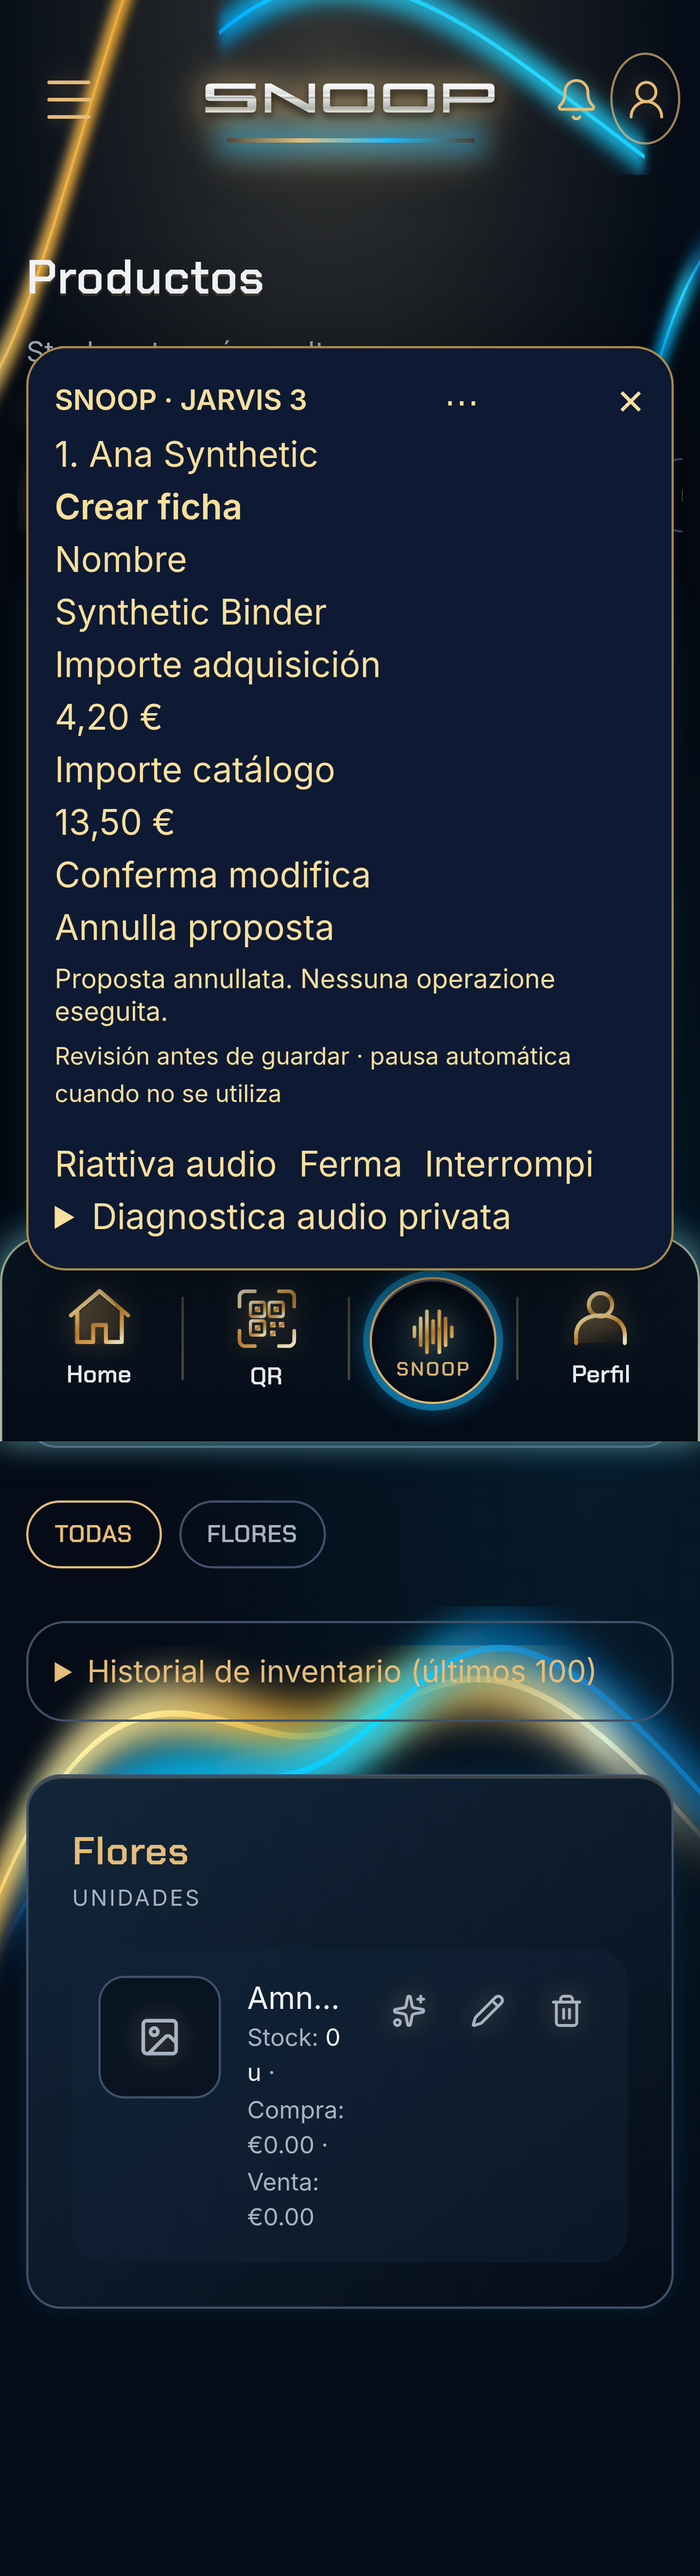
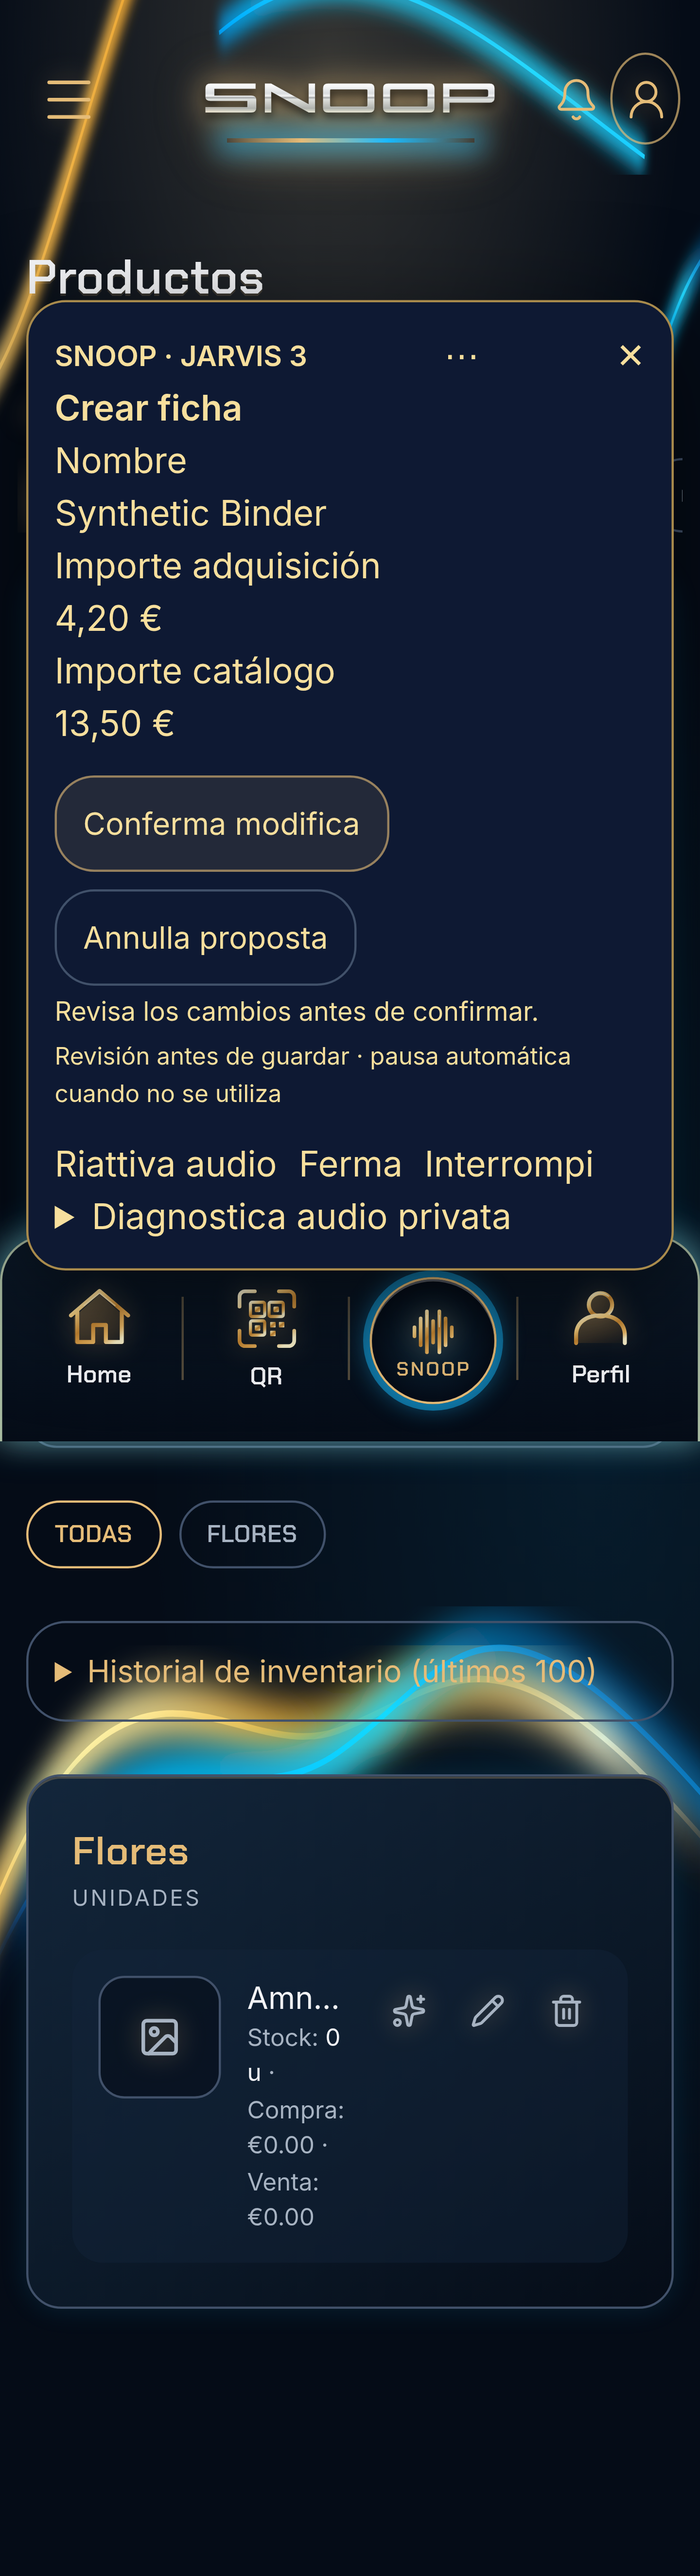
fix(jarvis): isolate confirmation state and separate mobile controls

Changed region(s): [[0.0312, 0.0935, 0.7812, 0.4053], [0.75, 0.0935, 0.9688, 0.1559]]

diff --git a/src/components/DeepgramPilotVoice.tsx b/src/components/DeepgramPilotVoice.tsx
@@ -419,6 +419,8 @@ export function DeepgramPilotVoice({
                 enabled: message.enabled,
                 summary: message.summary,
               });
+              setPrivateRecords([]);
+              setStatus("Revisa los cambios antes de confirmar.");
               setExpanded(true);
             }
           } else if (message.type === "AppExecutionExpired") {
@@ -998,8 +1000,10 @@ export function DeepgramPilotVoice({
               {execution.summary.attestation}
             </label>
           )}
+          <div className="mt-3 flex flex-wrap gap-2">
           <button
             type="button"
+            className="min-h-11 rounded-xl border border-neon/60 bg-neon/10 px-3 text-sm disabled:opacity-50"
             disabled={
               execution.busy ||
               (!execution.uncertain &&
@@ -1026,6 +1030,7 @@ export function DeepgramPilotVoice({
           </button>
           <button
             type="button"
+            className="min-h-11 rounded-xl border border-border px-3 text-sm disabled:opacity-50"
             disabled={execution.busy || execution.uncertain}
             onClick={() => {
               if (!audio.current) return;
@@ -1039,6 +1044,7 @@ export function DeepgramPilotVoice({
           >
             Annulla proposta
           </button>
+          </div>
         </section>
       )}
       <p

diff --git a/docs/JARVIS_OPERATION_INVENTORY.md b/docs/JARVIS_OPERATION_INVENTORY.md
@@ -20,15 +20,15 @@ Scanned files: 230; routes: 29; UI/API entries: 338; route-owned ports: 15.
 | src/components/ClubThemeSettingsPanel.tsx:53 | ui_action | onClick | No automatic claim; see runtime matrix |
 | src/components/ClubThemeSettingsPanel.tsx:70 | ui_action | onClick | No automatic claim; see runtime matrix |
 | src/components/ClubWalletSettingsPanel.tsx:62 | ui_action | onClick | No automatic claim; see runtime matrix |
-| src/components/DeepgramPilotVoice.tsx:827 | ui_action | onClick | No automatic claim; see runtime matrix |
-| src/components/DeepgramPilotVoice.tsx:834 | ui_action | onClick | No automatic claim; see runtime matrix |
-| src/components/DeepgramPilotVoice.tsx:1009 | ui_action | onClick | No automatic claim; see runtime matrix |
-| src/components/DeepgramPilotVoice.tsx:1030 | ui_action | onClick | No automatic claim; see runtime matrix |
-| src/components/DeepgramPilotVoice.tsx:1102 | ui_action | onClick | No automatic claim; see runtime matrix |
-| src/components/DeepgramPilotVoice.tsx:1122 | ui_action | onClick | No automatic claim; see runtime matrix |
-| src/components/DeepgramPilotVoice.tsx:1126 | ui_action | onClick | No automatic claim; see runtime matrix |
-| src/components/DeepgramPilotVoice.tsx:1129 | ui_action | onClick | No automatic claim; see runtime matrix |
-| src/components/DeepgramPilotVoice.tsx:1138 | ui_action | onClick | No automatic claim; see runtime matrix |
+| src/components/DeepgramPilotVoice.tsx:829 | ui_action | onClick | No automatic claim; see runtime matrix |
+| src/components/DeepgramPilotVoice.tsx:836 | ui_action | onClick | No automatic claim; see runtime matrix |
+| src/components/DeepgramPilotVoice.tsx:1013 | ui_action | onClick | No automatic claim; see runtime matrix |
+| src/components/DeepgramPilotVoice.tsx:1035 | ui_action | onClick | No automatic claim; see runtime matrix |
+| src/components/DeepgramPilotVoice.tsx:1108 | ui_action | onClick | No automatic claim; see runtime matrix |
+| src/components/DeepgramPilotVoice.tsx:1128 | ui_action | onClick | No automatic claim; see runtime matrix |
+| src/components/DeepgramPilotVoice.tsx:1132 | ui_action | onClick | No automatic claim; see runtime matrix |
+| src/components/DeepgramPilotVoice.tsx:1135 | ui_action | onClick | No automatic claim; see runtime matrix |
+| src/components/DeepgramPilotVoice.tsx:1144 | ui_action | onClick | No automatic claim; see runtime matrix |
 | src/components/FinancialRecordDialog.tsx:336 | ui_action | onClick | No automatic claim; see runtime matrix |
 | src/components/FinancialRecordDialog.tsx:377 | ui_action | onClick | No automatic claim; see runtime matrix |
 | src/components/FinancialRecordDialog.tsx:389 | ui_action | onClick | No automatic claim; see runtime matrix |

diff --git a/docs/JARVIS_APP_COVERAGE.md b/docs/JARVIS_APP_COVERAGE.md
@@ -108,3 +108,11 @@ di stock, movimenti e prezzi non modificati. Le vecchie RPC che troncherebbero i
 prezzi vengono rifiutate prima della scrittura. La fixture carica la migrazione
 prezzi decimali già esistente, mai applicata a produzione da questo intervento.
 Nessun prezzo reale è stato toccato.
+
+La verifica degli screenshot ha inoltre riprodotto uno stato UI obsoleto: dopo un
+annullamento la nuova proposta mostrava ancora il messaggio precedente. Ogni
+proposta ora mostra il proprio stato di revisione e rimuove la lista di ricerca
+precedente. I controlli conferma/annulla hanno aree tattili di almeno 44 px, separate
+e senza sovrapposizioni. Il browser verifica stato, bersaglio, dimensioni e assenza
+di scritture implicite sui quattro profili. Screenshot reali renderizzati in
+`docs/screenshots/jarvis-confirmation-{samsung,iphone}.png` (provider sintetico).
